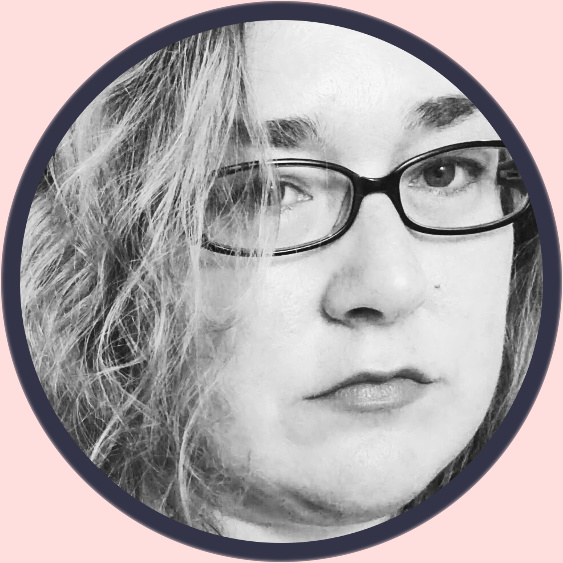
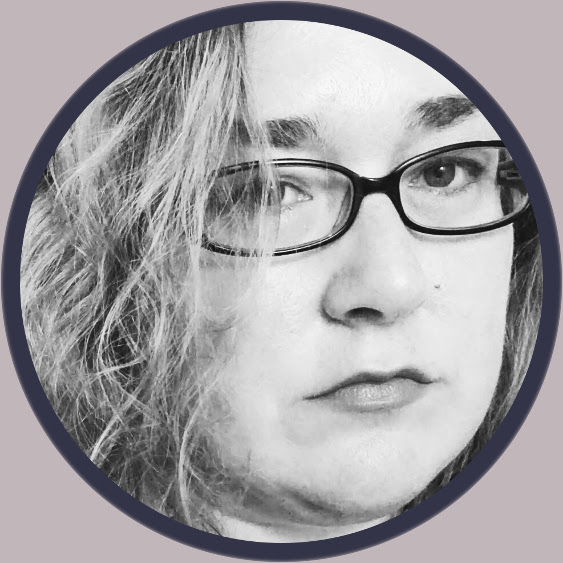
ecia's changes

Changed region(s): [[0.0, 0.0, 1.0, 1.0], [0.0, 0.0, 0.4831, 0.4831]]

diff --git a/src/index.html b/src/index.html
@@ -71,6 +71,13 @@
               <h2 class='title right'><span class='first'>A</span>bout <span class='second'>u</span>s</h2>
               <p>We're the organizers of <a href='https://www.meetup.com/Monadic-Warsaw/' target='_blank'>Monadic Warsaw</a>, Ewa Kruzynska and <a href='https://twitter.com/monad_cat' target='_blank'>Michal Kawalec</a>. With over five hundred members it grew up to be one of the biggest Haskell meetups in Europe. We've had speakers and visitors from all over the world and we also host a <a href='https://www.youtube.com/channel/UCCeiYYR2fCXarkfSqqFBwuA' target='_blank'>YouTube channel</a>. It is our way of popularizing functional programming and building a community of interested people. We are sure the summer school will give us as much fun as Monadic Warsaw.
               </p>
+              <h2 class='title left'><span class='first'>S</span>cholarship</h2>
+
+              <p>We will hold the summer school at <a href='https://goo.gl/maps/DMHV2GN2Nk12' target='_blank'>Mlynska 12</a>, Poznan, Poland. The venue is in the Old Town, a walking distance from a town square. We would love to help you with choosing a place to stay. If you have any questions, please email us at <a href='mailto:team@monadic.party'>team@monadic.party</a>.</p>
+
+              <p>In terms of travel, <a href='https://wizzair.com' target='_blank'>WizzAir</a>, <a href='https://www.ryanair.com/gb/en/' target='_blank'>Ryanair</a>, <a href='https://www.lufthansa.com/uk/en/Homepage' target='_blank'>Lufthansa</a> and <a href='http://www.lot.com/gb/en' target='_blank'>LOT</a> all have a dense network of daily connections to and from the city. If you want to save some carbon dioxide, there are frequent train connections from Germany and inside Poland. Buses are also a good budget option with <a href='http://www.polskibus.com/en/index.htm' target='_blank'>PolskiBus</a> which operates a lot of routes in the region.</p>
+
+              <p>Inside the city of Poznan there is a good <a href='http://www.ztm.poznan.pl/en/#planner' target='_blank'>public transporation system</a> with a dense network throughout the city.</p>
           </div>
       </div>
 
@@ -78,21 +85,21 @@
         <div class='container'>
             <div class='row'>
                 <div class='col-4 column'>
-                    <img class='photo' src='/julie.jpg' />
+                    <img src='/julie.jpg' />
                     <h3 class='name'><span class='first'>J</span>ulie <span class='second'>M</span>oronuki</h3>
                     <div class='bio'>
                         Julie Moronuki is one of the authors of <a href='http://haskellbook.com/' target='_blank'>Haskell Programming from First Principles</a>. She has a master's degree in linguistics and taught English, English as a second language, philosophy, linguistics, and medical transcription for over ten years. When she is not writing Haskell, writing about Haskell, or teaching Haskell at a local meetups, she homeschools her two children, pickles everything in sight, and adopts too many pets.
                     </div>
                 </div>
                 <div class='col-4 column'>
-                    <img class='photo' src='/chris.jpg' />
+                    <img src='/chris.jpg' />
                     <h3 class='name'><span class='first'>C</span>hris <span class='second'>M</span>artin</h3>
                     <div class='bio'>
                         Chris Martin has a master's degree in computer science from Georgia Tech. He has worked for <a href='https://gtri.gatech.edu/laboratories/cybersecurity-information-protection-and-hardware-evaluation-research' target='_blank'>GTRI</a>, was cofounder and CTO of <a href='https://use.foldapp.com/' target='_blank'>Fold</a>, and worked for <a href='https://hijro.com/' target='_blank'>Hijro</a> writing a blockchain in Haskell. He has recently founded <a href='https://typeclasses.com/'>Typeclass Consulting</a> with Julie Moronuki and is also writing a book, <a href='https://joyofhaskell.com/'>The Joy of Haskell</a>, with her. Chris tries to increase public awareness of NixOS and the power of good documentation. He enjoys barefoot running, sour beers, and arguing with Julie about math.
                     </div>
                 </div>
                 <div class='col-4 column'>
-                    <img class='photo' src='/krzysiek.jpg' />
+                    <img src='/krzysiek.jpg' />
                     <h3 class='name'><span class='first'>K</span>rzysztof <span class='second'>G</span>ogolewski</h3>
                     <div class='bio'>
                         Haskell user since 2008, currently software engineer at <a href='https://codility.com/' target='_blank'>Codility</a>. Studied mathematics and computer science and University of Warsaw and Ecole Polytechnique. Enjoys finding bugs in GHC.
@@ -101,14 +108,14 @@
             </div>
             <div class='row'>
                 <div class='col-4 column'>
-                    <img class='photo' src='/carter.jpg' />
+                    <img src='/carter.jpg' />
                     <h3 class='name'><span class='first'>C</span>arter <span class='second'>S</span>chonwald</h3>
                     <div class='bio'>
                         Hello! I’m Carter Schonwald, a computer scientist. Right now I’m collecting novel algorithmic and mathematical problems in their native industrial habitat, they’re quite fun to spot in their natural unformalized state. Later I think I shall climb back into my tower and analyze them in the laboratory.
                     </div>
                 </div>
                 <div class='col-4 column'>
-                    <img class='photo' src='/marcin.jpg' />
+                    <img src='/marcin.jpg' />
                     <h3 class='name'><span class='first'>M</span>arcin <span class='second'>S</span>zamotulski</h3>
                     <div class='bio'>
 Marcin is a mathematician and a functional programmer.  He did research in
@@ -120,7 +127,7 @@ blockchain technology.
                     </div>
                 </div>
                 <div class='col-4 column'>
-                    <img class='photo' src='/michal.jpg' />
+                    <img src='/michal.jpg' />
                     <h3 class='name'><span class='first'>M</span>ichał <span class='second'>K</span>awalec</h3>
                     <div class='bio'>
                         Michał is an engineer of many trades. He works at <a href='https://x-team.com/' target='_blank'>X-Team</a> where he is responsible for libraries and architecture of League of Legends, and, previously he had worked with startups, supercomputers, and particle detectors. At nights, he writes Haskell libraries and runs the biggest Haskell Meetup in Poland. Talk to him about riding on two wheels ;)
@@ -130,15 +137,71 @@ blockchain technology.
         </div>
     </div>
 
+    <div class='topics'>
+      <div class='container'>
+        <h1>=&lt;&lt; Topics &gt;&gt;=</h1>
+        <div class='row'>
+            <div class='col-4 column'>
+                <h3 class='name'><span class='first'>J</span>ulie <span class='second'>M</span>oronuki</h3>
+                <div class='bio'>
+                    Julie Moronuki is one of the authors of <a href='http://haskellbook.com/' target='_blank'>Haskell Programming from First Principles</a>. She has a master's degree in linguistics and taught English, English as a second language, philosophy, linguistics, and medical transcription for over ten years. When she is not writing Haskell, writing about Haskell, or teaching Haskell at a local meetups, she homeschools her two children, pickles everything in sight, and adopts too many pets.
+                </div>
+            </div>
+            <div class='col-4 column'>
+
+                <h3 class='name'><span class='first'>C</span>hris <span class='second'>M</span>artin</h3>
+                <div class='bio'>
+                  I want people to walk away feeling confident that they're capable of deploying Haskell apps to a server. So in the first half or so we'll install nix, use nix-deploy to get a demo app running, and learn enough about nix to get a sense of what's going on. And in the second half I'd like to iterate on that with some project; for that part, I'm not sure what the specific subject should be yet.
+                </div>
+            </div>
+            <div class='col-4 column'>
+
+                <h3 class='name'><span class='first'>K</span>rzysztof <span class='second'>G</span>ogolewski</h3>
+                <div class='bio'>
+                    Haskell user since 2008, currently software engineer at <a href='https://codility.com/' target='_blank'>Codility</a>. Studied mathematics and computer science and University of Warsaw and Ecole Polytechnique. Enjoys finding bugs in GHC.
+                </div>
+            </div>
+        </div>
+        <div class='row'>
+            <div class='col-4 column'>
+
+                <h3 class='name'><span class='first'>C</span>arter <span class='second'>S</span>chonwald</h3>
+                <div class='bio'>
+                    Hello! I’m Carter Schonwald, a computer scientist. Right now I’m collecting novel algorithmic and mathematical problems in their native industrial habitat, they’re quite fun to spot in their natural unformalized state. Later I think I shall climb back into my tower and analyze them in the laboratory.
+                </div>
+            </div>
+            <div class='col-4 column'>
+
+                <h3 class='name'><span class='first'>M</span>arcin <span class='second'>S</span>zamotulski</h3>
+                <div class='bio'>
+Marcin is a mathematician and a functional programmer.  He did research in
+Abstract Algebra and Category theory in the crossroads of Galois theory.
+He also did research in Game Theory.  He has been programming in various
+languages and paradigms: from C and Python, to PureScript and Haskell,
+and logic programming.  Currently he is working for <a href='https://iohk.io/' target='_blank'>IOHK</a> on the
+blockchain technology.
+                </div>
+            </div>
+            <div class='col-4 column'>
+
+                <h3 class='name'><span class='first'>M</span>ichał <span class='second'>K</span>awalec</h3>
+                <div class='bio'>
+                  Michał is an engineer of many trades. He works at <a href='https://x-team.com/' target='_blank'>X-Team</a> where he is responsible for libraries and architecture of League of Legends, and, previously he had worked with startups, supercomputers, and particle detectors. At nights, he writes Haskell libraries and runs the biggest Haskell Meetup in Poland. Talk to him about riding on two wheels ;)
+                </div>
+            </div>
+        </div>
+    </div>
+</div>
+
     <div class='call-for-speakers'>
         <div class='container'>
             <h1>=&lt;&lt; Call for speakers &gt;&gt;=</h1>
             <h4>Deadline: 28th of February 2018</h4>
-            
+
             <p>Do you want to lead workshops at the summer school? We would love to invite you to be a speaker at our event.</p>
-            
+
             <p>We are looking for people interested in leading workshops spanning four to six slots on various topics in the Haskell ecosystem. Slots take fifty minutes and can be allocated together or spread over a couple days, depending on your preference. We will have two tracks, a beginners one that caters to programmers that have limited Haskell experience and advanced for people who are comfortable with the language and want to learn new concepts.</p>
-            
+
             <p>Our summer school is not about making money, it's about spreading Haskell knowledge. Because of that we will cover travel and accommodation costs along with a ticket to the event for speakers.</p>
 
 
@@ -147,6 +210,22 @@ blockchain technology.
             </h2>
         </div>
     </div>
+    <div class='partners'>
+        <div class='container'>
+          <h1>=&lt;&lt; Partners &gt;&gt;=</h1>
+          <div class='row'>
+            <div class='col-4 column'>
+              <a href='https://www.janestreet.com/' target='_blank'><img src='JaneStreetLogo.png' /></a>
+            </div>
+            <div class='col-4 column'>
+              <a href='https://afp-2017.github.io/' target='_blank'><img src='utreht.png' /></a>
+            </div>
+                <div class='col-4 column'>
+                  <a href='https://x-team.com/' target='_blank'><img src='x-team.png' /></a>
+                </div>
+            </div>
+        </div>
+
 
     <div class='sign-up'>
         <div class='container'>

diff --git a/src/style.less b/src/style.less
@@ -3,6 +3,7 @@
 @color-3: #FFDEDE;
 @color-4: #fff;
 @color-5: #F7E9C6;
+@color-6: #1E2652;
 @color-dark: #868787;
 @color-darker: #656666;
 @title-first: #ec003a;
@@ -39,15 +40,15 @@ a {
       color: @color-darker;
     }
 
-    h1 { 
-      text-align: center; 
-      text-transform: uppercase; 
+    h1 {
+      text-align: center;
+      text-transform: uppercase;
       font-size: 2.3rem
     }
     h3 { text-align: center }
 
-    img { 
-      width: 336px; 
+    img {
+      width: 336px;
       margin-left: calc(~"50% - 168px");
 
 
@@ -119,7 +120,7 @@ a {
 }
 
 .speakers {
-  background-color: @color-3;
+  background-color: #c1b6b9;
 
   .container {
     padding-top: 21px;
@@ -130,7 +131,7 @@ a {
     margin-bottom: 25px;
 
     img {
-      width: 60%; 
+      width: 60%;
       margin-left: 20%;
     }
 
@@ -152,7 +153,65 @@ a {
     }
   }
 }
+.topics {
+  background-color: @color-6;
+  & * {color: #fff; }
 
+  h1{
+    text-align: center;
+    color: @color-1;
+    font-family: 'Share Tech Mono', monospace;
+    margin-bottom: 0;
+    color: @color-1;
+  }
+
+  .container {
+    padding-top: 21px;
+  }
+  .container .column {
+    margin-top: 18px;
+    margin-bottom: 25px;
+
+    img {
+      width: 60%;
+      margin-left: 20%;
+    }
+
+    .name {
+      margin-top: 15px;
+
+      & * { font-family: inherit; }
+
+      .first { color: @title-first; }
+      .second { color: @title-second; }
+    }
+
+    .bio {
+      text-align: justify;
+    }
+
+    @media (max-width: @mobile-width) {
+    }
+
+    .title {
+      font-family: 'Share Tech Mono', monospace;
+      color: @color-1;
+      margin-top: 35px;
+
+      & * { font-family: inherit; }
+
+      .first { color: @title-first; }
+      .second { color: @title-second; }
+
+      &.left {
+        text-align: left;
+      }
+      &.right {
+        text-align: right;
+      }
+    }
+  }
+}
 .call-for-speakers {
   background-color: @color-4;
   min-height: 50vh;
@@ -182,10 +241,53 @@ a {
   h4 {
     margin-bottom: 50px;
   }
-} 
-  
+}
+.partners {
+  background-color: #805b76;
+  h1 {
+    text-align: center;
+    color: #4C4D4D;
+    font-family: 'Share Tech Mono', monospace;
+  }
+
+  h1 {
+    margin-bottom: 0;
+    color: #333447;
+  }
+
+  .container {
+    padding-top: 21px;
+  }
+
+  .container .column {
+    margin-top: 18px;
+    margin-bottom: 25px;
+
+    img {
+      width: 60%;
+      margin-left: 20%;
+    }
+
+    .name {
+      margin-top: 15px;
+
+      & * { font-family: inherit; }
+
+      .first { color: @title-first; }
+      .second { color: @title-second; }
+
+    }
+
+    .bio {
+      text-align: justify;
+    }
+
+    @media (max-width: @mobile-width) {
+    }
+  }
+}
 .sign-up {
-  background-color: @color-5;
+  background-color: #d29624;
   min-height: 50vh;
   padding-top: 50px;
   padding-bottom: 50px;
